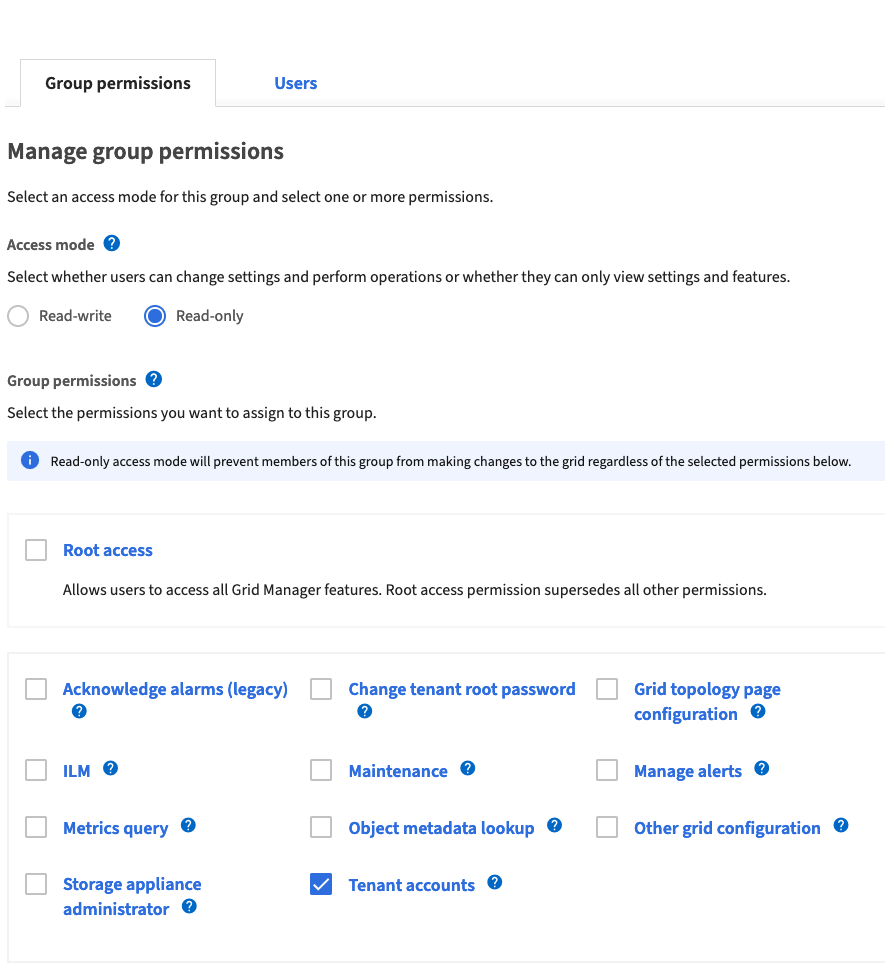
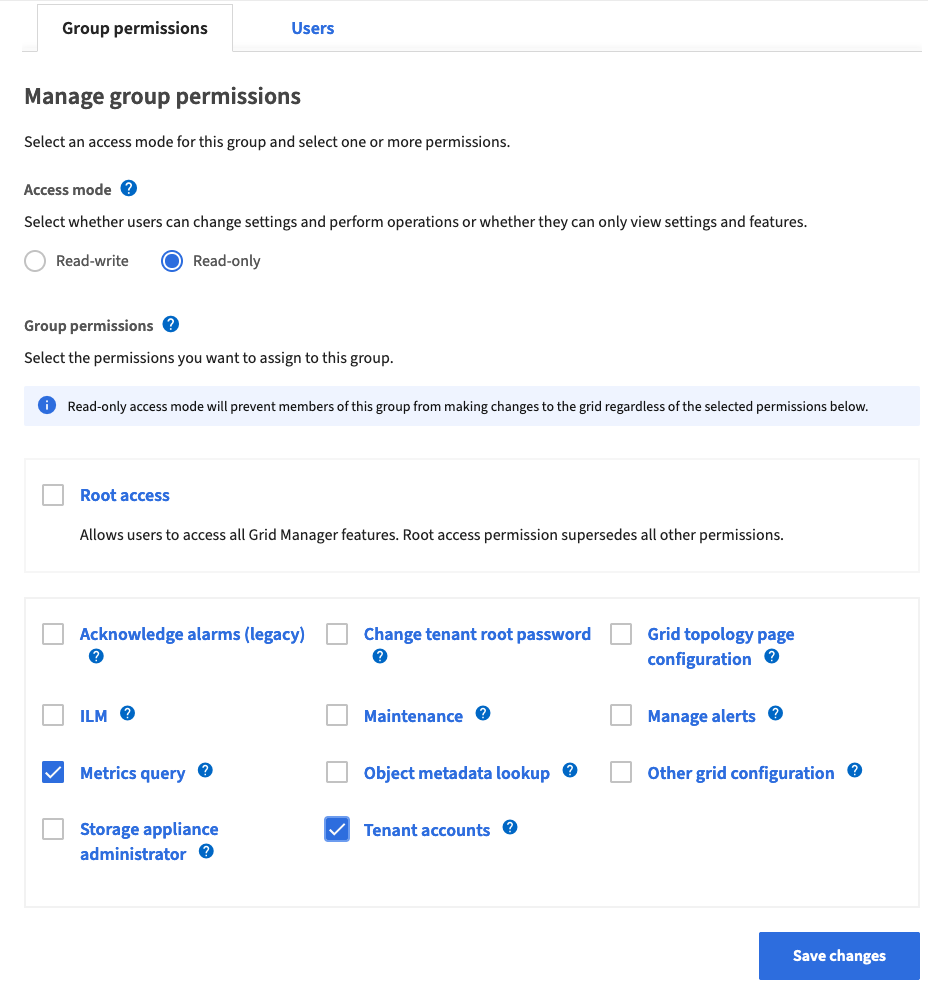
docs: add `Metrics query` permissions for storagegrid

diff --git a/docs/prepare-storagegrid-clusters.md b/docs/prepare-storagegrid-clusters.md
@@ -22,7 +22,7 @@ You will need a root or admin account to create a new group permission.
 5. Enter a unique name for the group, which you cannot update later.
 6. Select `Continue`
 7. On the `Manage group permissions` screen, select the permissions you want. At a minimum, Harvest requires
-   the `Tenant accounts` permission.
+   the `Tenant accounts` and `Metrics query` permissions.
 8. Select `Save changes`
 
 ![StorageGRID create group permissions](assets/prepare-storagegrid/create_group.png)
